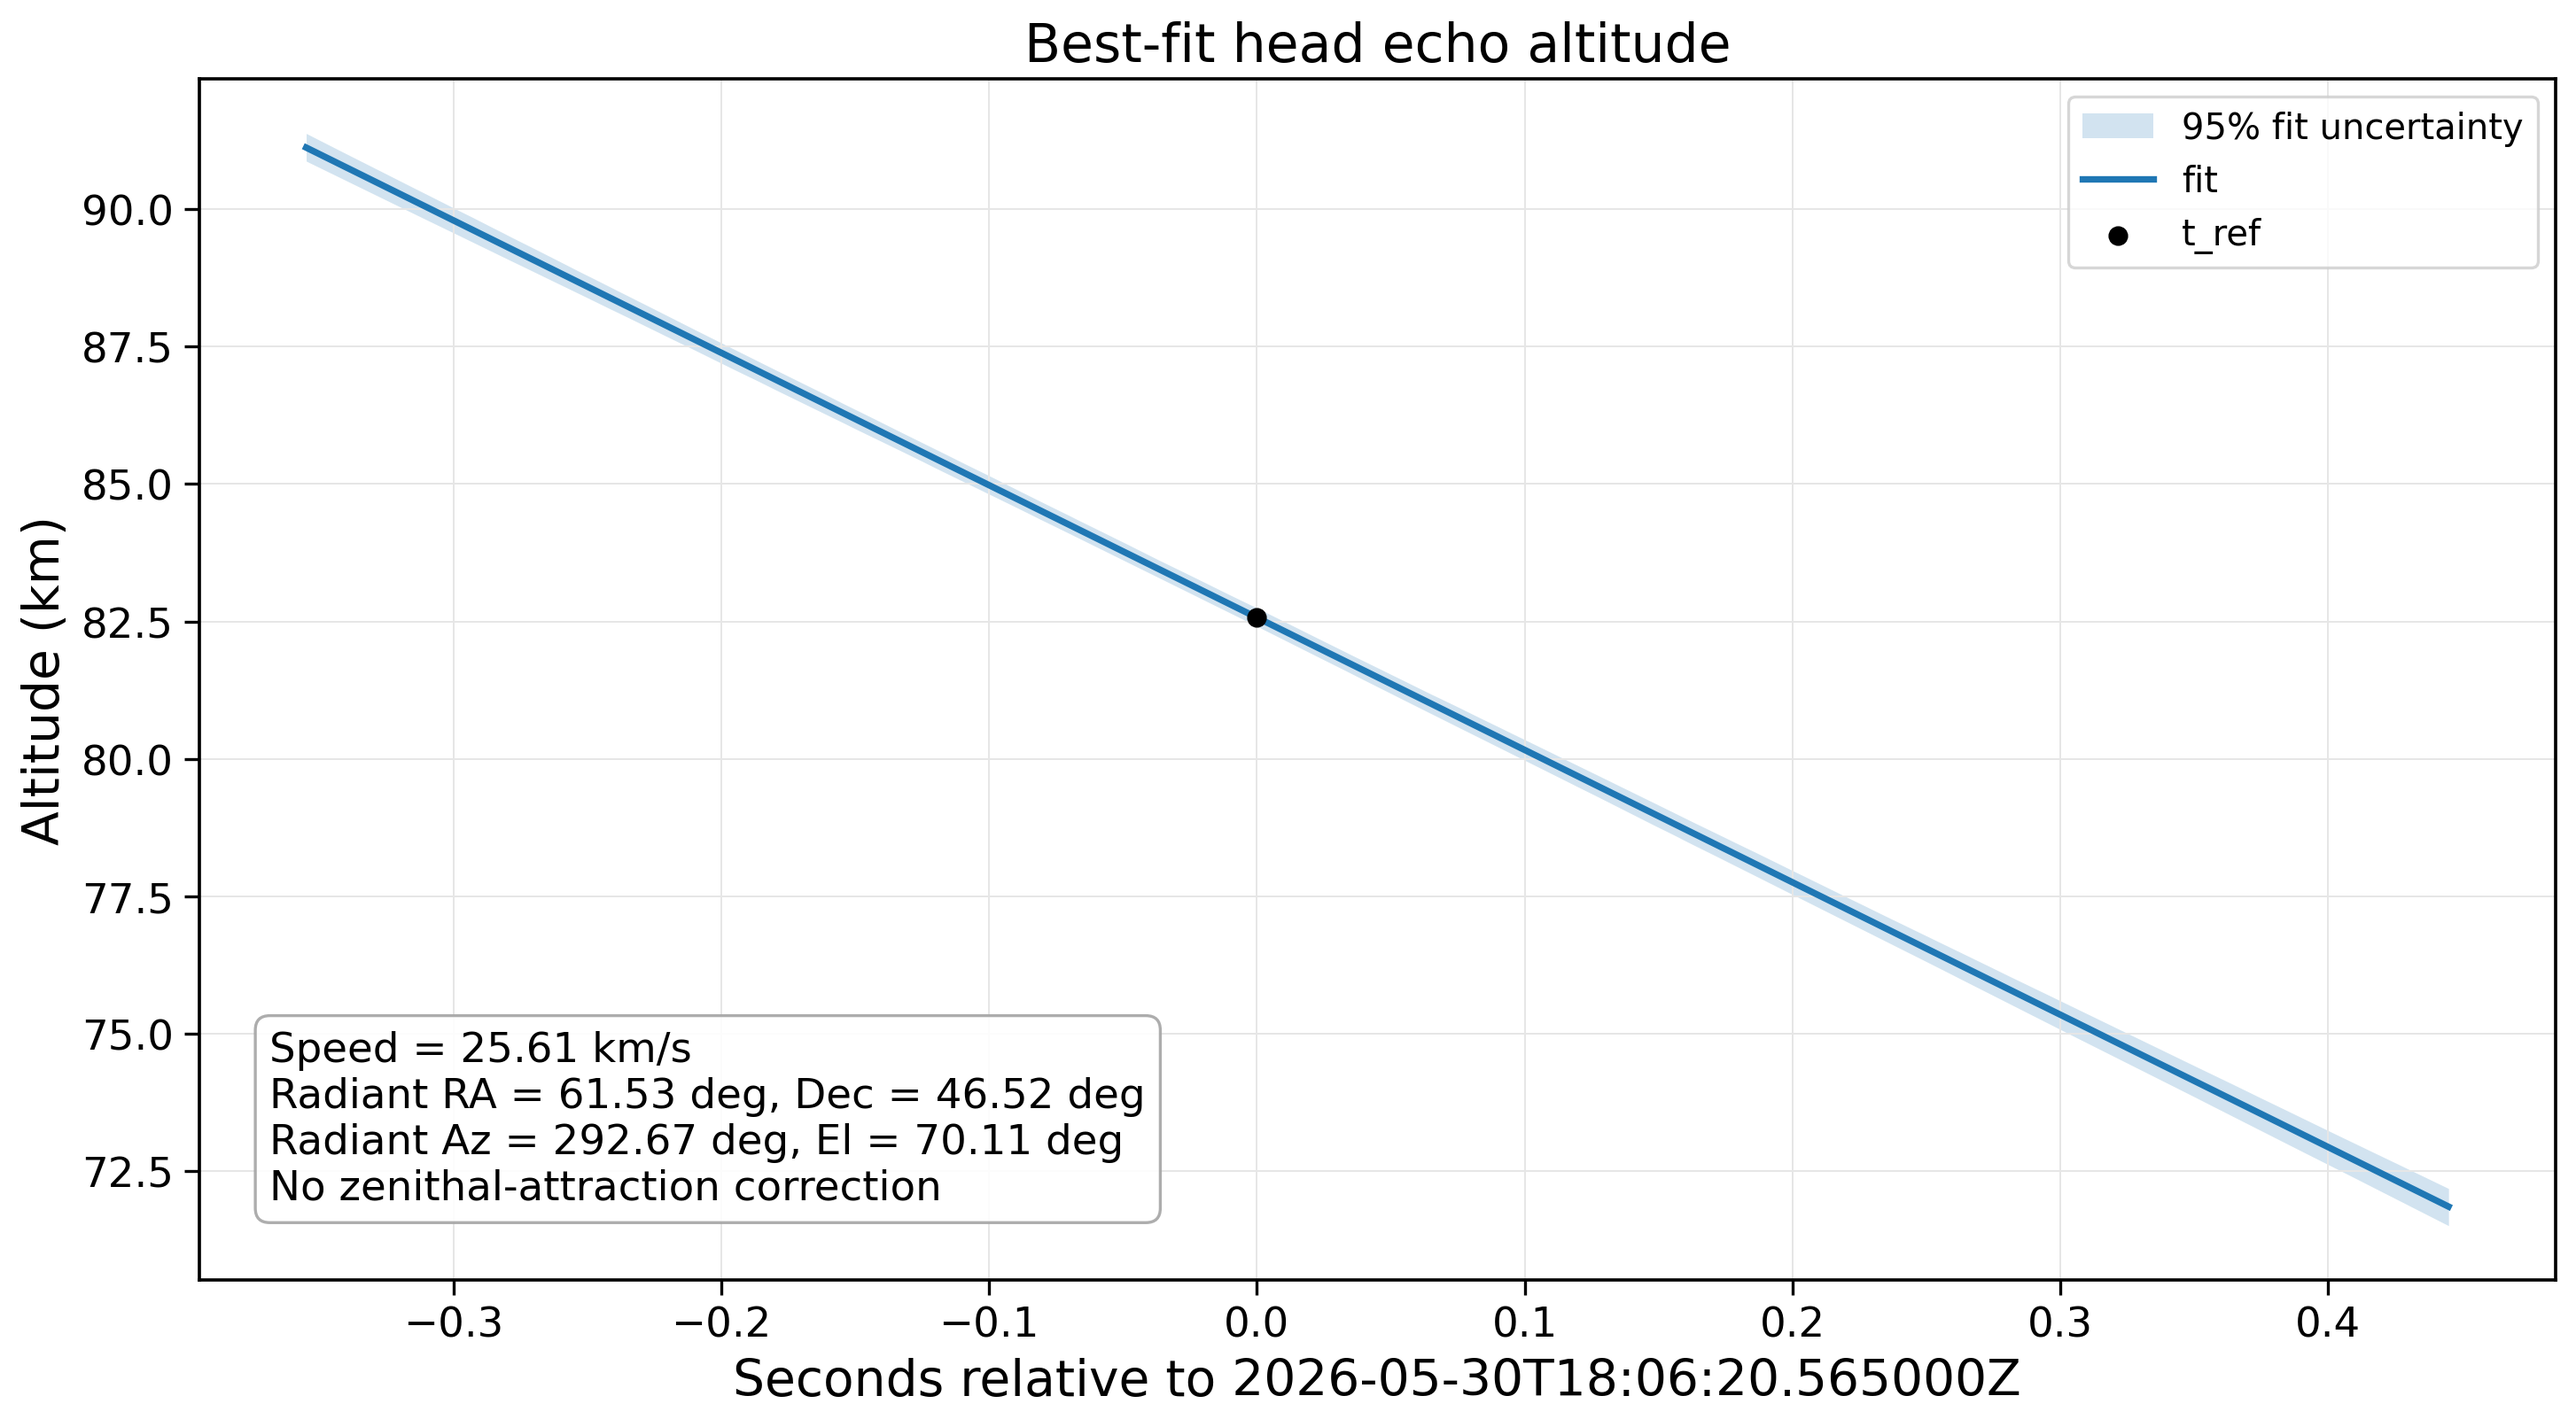
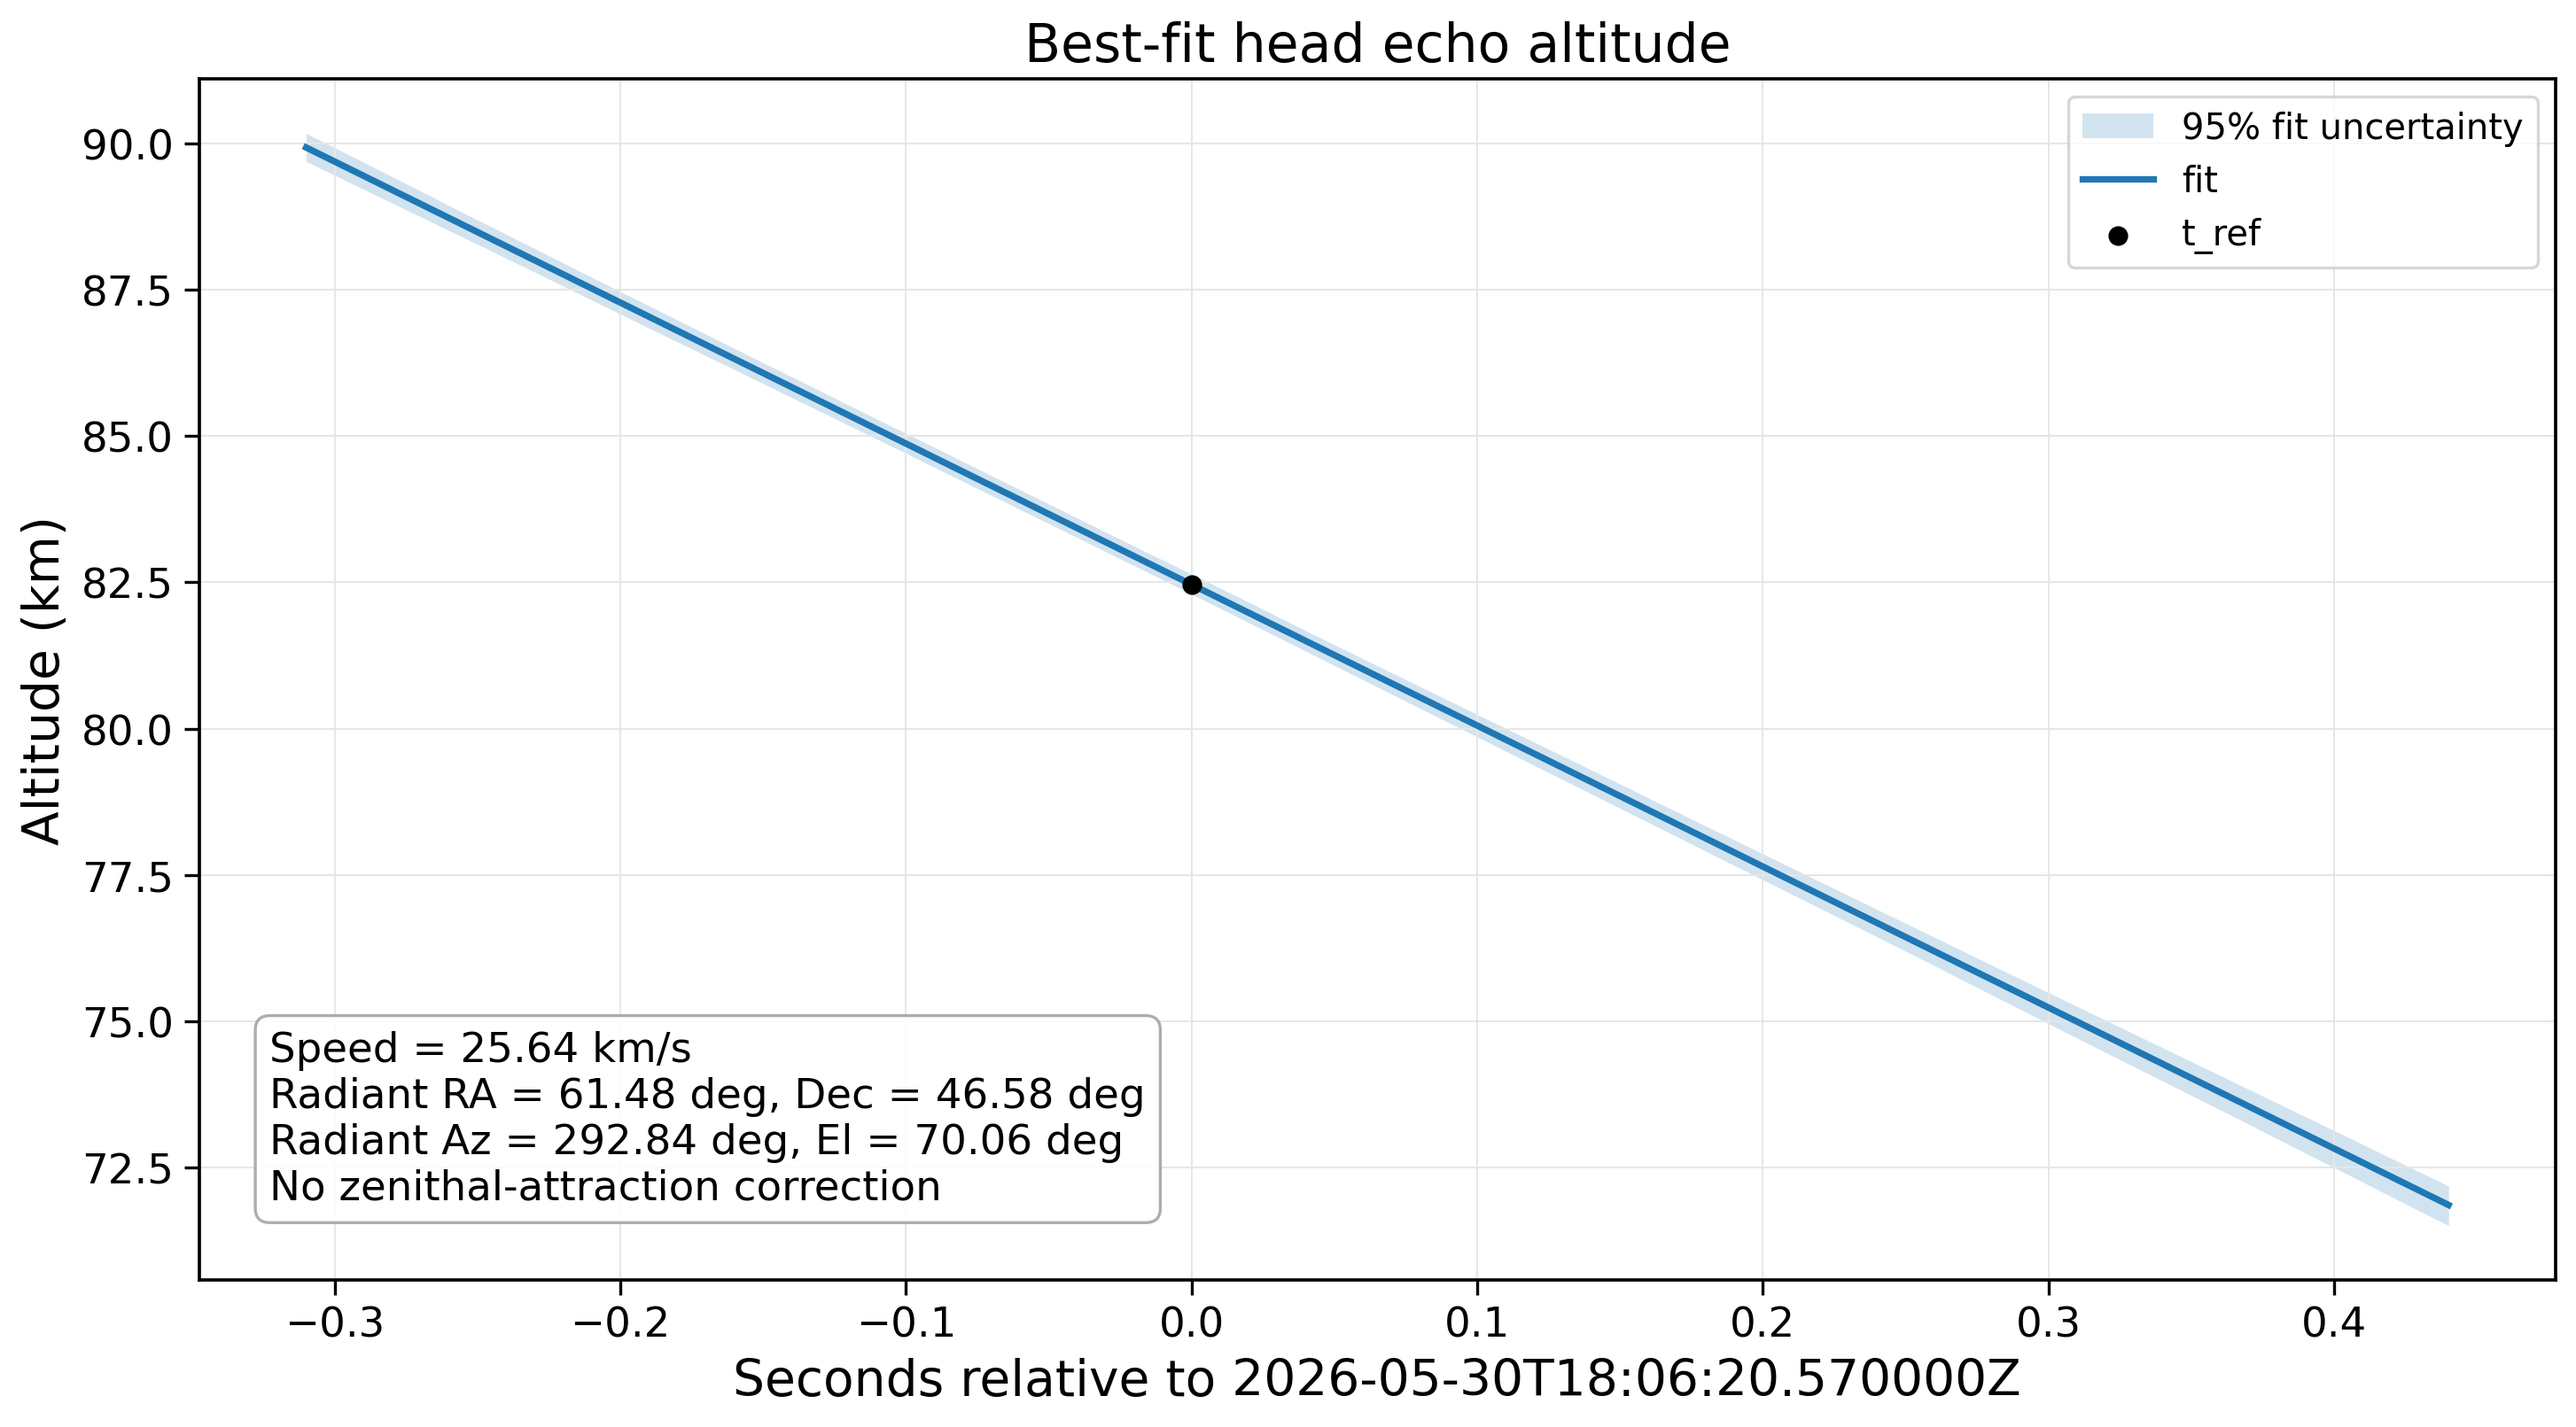
Trim initial Pomfret trajectory picks

diff --git a/estimate_head_echo_trajectory.py b/estimate_head_echo_trajectory.py
@@ -103,7 +103,47 @@ def roi_observations(annotation, snr_threshold_db=0.0):
     return out
 
 
-def load_observations(annotation_file, snr_threshold_db, reject_outliers=True, delay_sigma=4.0, doppler_sigma=4.0):
+def parse_station_start_trims(trim_specs):
+    trims = {}
+    for spec in trim_specs or []:
+        if "=" not in spec:
+            raise ValueError(f"Trim spec must have form station=seconds, got {spec!r}")
+        station, value = spec.split("=", 1)
+        trims[station.strip()] = float(value)
+    return trims
+
+
+def trim_station_starts(obs, rejected, trims):
+    if not trims:
+        return obs, rejected
+    kept = []
+    newly_rejected = list(rejected)
+    for station in sorted(set(o["station"] for o in obs)):
+        station_obs = [o for o in obs if o["station"] == station]
+        trim_s = trims.get(station, 0.0)
+        if trim_s <= 0.0 or not station_obs:
+            kept.extend(station_obs)
+            continue
+        t0 = min(o["unix_time"] for o in station_obs)
+        for ob in station_obs:
+            if ob["unix_time"] < t0 + trim_s:
+                rob = dict(ob)
+                rob["reject_reason"] = f"station_start_trim_{trim_s:g}s"
+                newly_rejected.append(rob)
+            else:
+                kept.append(ob)
+    kept.sort(key=lambda x: x["unix_time"])
+    return kept, newly_rejected
+
+
+def load_observations(
+    annotation_file,
+    snr_threshold_db,
+    reject_outliers=True,
+    delay_sigma=4.0,
+    doppler_sigma=4.0,
+    station_start_trims=None,
+):
     annotations = json.loads(Path(annotation_file).read_text(encoding="utf-8"))
     points, rejected = load_points(
         annotation_file,
@@ -123,6 +163,7 @@ def load_observations(annotation_file, snr_threshold_db, reject_outliers=True, d
         for p in points
     ]
     obs.sort(key=lambda x: x["unix_time"])
+    obs, rejected = trim_station_starts(obs, rejected, station_start_trims or {})
     used_stations = sorted(set(o["station"] for o in obs))
     return annotations, obs, used_stations, rejected
 
@@ -473,7 +514,18 @@ def fit_trajectory(obs, geom, data_dir, use_doppler=True):
     }
 
 
-def write_outputs(out_dir, annotations, obs, used_stations, geom, fit, rejected_points, use_doppler, covariance_samples=800):
+def write_outputs(
+    out_dir,
+    annotations,
+    obs,
+    used_stations,
+    geom,
+    fit,
+    rejected_points,
+    use_doppler,
+    covariance_samples=800,
+    station_start_trims=None,
+):
     out_dir = Path(out_dir)
     out_dir.mkdir(parents=True, exist_ok=True)
     res = fit["result"]
@@ -495,6 +547,7 @@ def write_outputs(out_dir, annotations, obs, used_stations, geom, fit, rejected_
         "used_stations": used_stations,
         "n_observations": len(obs),
         "n_rejected_roi_points": len(rejected_points),
+        "station_start_trims_s": station_start_trims or {},
         "fit_uses_doppler": use_doppler,
         "doppler_model": "f_D = (f0/c) * (u_tx + u_rx) dot v, positive for increasing bistatic path length",
         "initial_station_picks": fit["initial_station_picks"],
@@ -666,16 +719,25 @@ def main():
     p.add_argument("--no-reject-outliers", action="store_true")
     p.add_argument("--delay-sigma", type=float, default=4.0)
     p.add_argument("--doppler-sigma", type=float, default=4.0)
+    p.add_argument(
+        "--station-start-trim",
+        action="append",
+        default=["pomfret=0.05"],
+        metavar="STATION=SECONDS",
+        help="Trim this many seconds from the start of a station's retained ROI picks; repeatable.",
+    )
     p.add_argument("--covariance-samples", type=int, default=800)
     p.add_argument("--no-show", action="store_true")
     args = p.parse_args()
 
+    station_start_trims = parse_station_start_trims(args.station_start_trim)
     annotations, obs, used_stations, rejected = load_observations(
         args.annotations,
         args.snr_threshold_db,
         reject_outliers=not args.no_reject_outliers,
         delay_sigma=args.delay_sigma,
         doppler_sigma=args.doppler_sigma,
+        station_start_trims=station_start_trims,
     )
     if len(used_stations) < 3:
         raise SystemExit(f"Need at least three head-echo station ROIs; got {used_stations}")
@@ -692,6 +754,7 @@ def main():
         rejected,
         use_doppler,
         covariance_samples=args.covariance_samples,
+        station_start_trims=station_start_trims,
     )
     print(f"Used stations: {', '.join(used_stations)}")
     print(f"Observations: {payload['n_observations']}")

diff --git a/reports/trajectory_stats.tex b/reports/trajectory_stats.tex
@@ -1,19 +1,20 @@
-\newcommand{\TrajectoryNObservations}{186}
-\newcommand{\TrajectoryNRejected}{35}
-\newcommand{\TrajectoryFirstDetectionUTC}{2026-05-30 18:06:20.210 UTC}
-\newcommand{\TrajectoryInitialHeightKm}{91.1}
-\newcommand{\TrajectoryInitialLat}{41.981}
-\newcommand{\TrajectoryInitialLon}{-70.664}
-\newcommand{\TrajectoryRefHeightKm}{82.6}
+\newcommand{\TrajectoryNObservations}{181}
+\newcommand{\TrajectoryNRejected}{40}
+\newcommand{\TrajectoryPomfretStartTrimS}{0.05}
+\newcommand{\TrajectoryFirstDetectionUTC}{2026-05-30 18:06:20.260 UTC}
+\newcommand{\TrajectoryInitialHeightKm}{89.9}
+\newcommand{\TrajectoryInitialLat}{41.979}
+\newcommand{\TrajectoryInitialLon}{-70.659}
+\newcommand{\TrajectoryRefHeightKm}{82.5}
 \newcommand{\TrajectoryRefLat}{41.970}
-\newcommand{\TrajectoryRefLon}{-70.630}
-\newcommand{\TrajectorySpeedKmS}{25.61}
-\newcommand{\TrajectoryVEastKmS}{7.82}
-\newcommand{\TrajectoryVNorthKmS}{-3.02}
-\newcommand{\TrajectoryVUpKmS}{-24.20}
-\newcommand{\TrajectoryRadiantRADeg}{61.53}
-\newcommand{\TrajectoryRadiantDecDeg}{46.52}
-\newcommand{\TrajectoryRadiantAzDeg}{292.67}
-\newcommand{\TrajectoryRadiantElDeg}{70.11}
-\newcommand{\TrajectoryRangeRmsM}{470}
+\newcommand{\TrajectoryRefLon}{-70.629}
+\newcommand{\TrajectorySpeedKmS}{25.64}
+\newcommand{\TrajectoryVEastKmS}{7.83}
+\newcommand{\TrajectoryVNorthKmS}{-3.05}
+\newcommand{\TrajectoryVUpKmS}{-24.23}
+\newcommand{\TrajectoryRadiantRADeg}{61.48}
+\newcommand{\TrajectoryRadiantDecDeg}{46.58}
+\newcommand{\TrajectoryRadiantAzDeg}{292.84}
+\newcommand{\TrajectoryRadiantElDeg}{70.06}
+\newcommand{\TrajectoryRangeRmsM}{475}
 \newcommand{\TrajectoryDopplerRmsHz}{90}

diff --git a/reports/processing_report.tex b/reports/processing_report.tex
@@ -161,9 +161,12 @@ head-echo ROIs from Beverly, Clinton, and Pomfret.  Within each station ROI,
 one measurement is extracted at each time step by choosing the range gate with
 the highest SNR, requiring SNR greater than 5 dB.  A robust outlier rejection
 step is then applied independently to each station's delay and Doppler
-sequence.  The current fit uses \TrajectoryNObservations{} retained
-measurements and rejects \TrajectoryNRejected{} ROI peak measurements as
-outliers.
+sequence.  The first \TrajectoryPomfretStartTrimS{} s of Pomfret measurements
+are also trimmed before fitting because these earliest picks are visibly
+inconsistent with the later Pomfret trend.  The current fit uses
+\TrajectoryNObservations{} retained measurements and rejects
+\TrajectoryNRejected{} ROI peak measurements as outliers or station-start
+trimmed points.
 
 The fitted state is a six-parameter straight-line trajectory in the local ENU
 frame of the transmitter:

diff --git a/reports/generate_trajectory_report_assets.py b/reports/generate_trajectory_report_assets.py
@@ -222,6 +222,7 @@ def write_trajectory_stats(fit, tx0, rot, params):
     lines = [
         f"\\newcommand{{\\TrajectoryNObservations}}{{{fit['n_observations']}}}\n",
         f"\\newcommand{{\\TrajectoryNRejected}}{{{fit['n_rejected_roi_points']}}}\n",
+        f"\\newcommand{{\\TrajectoryPomfretStartTrimS}}{{{fit['station_start_trims_s'].get('pomfret', 0.0):.2f}}}\n",
         f"\\newcommand{{\\TrajectoryFirstDetectionUTC}}{{{first_utc}}}\n",
         f"\\newcommand{{\\TrajectoryInitialHeightKm}}{{{first_alt_m / 1000.0:.1f}}}\n",
         f"\\newcommand{{\\TrajectoryInitialLat}}{{{first_lat:.3f}}}\n",
